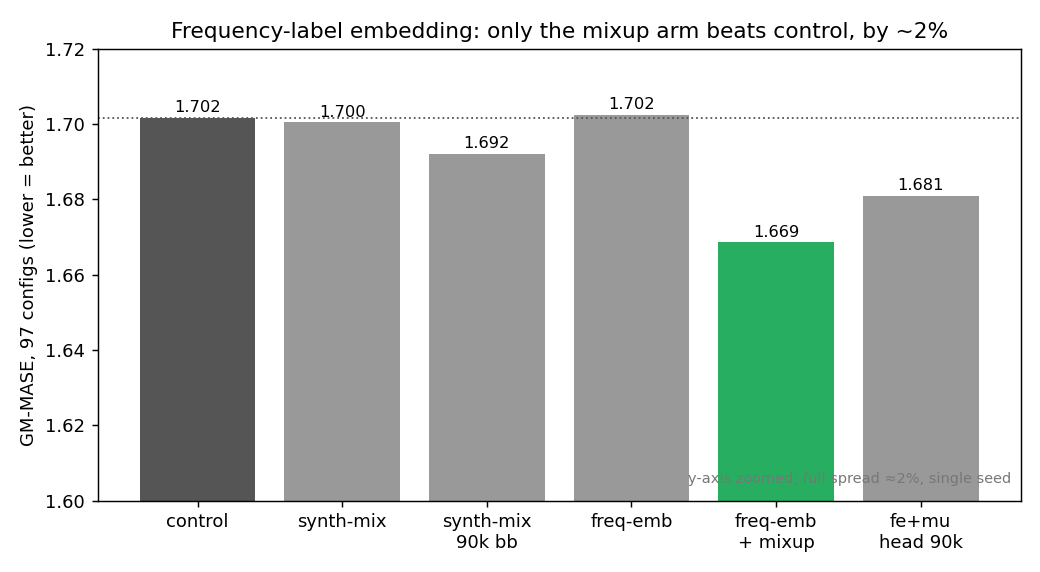
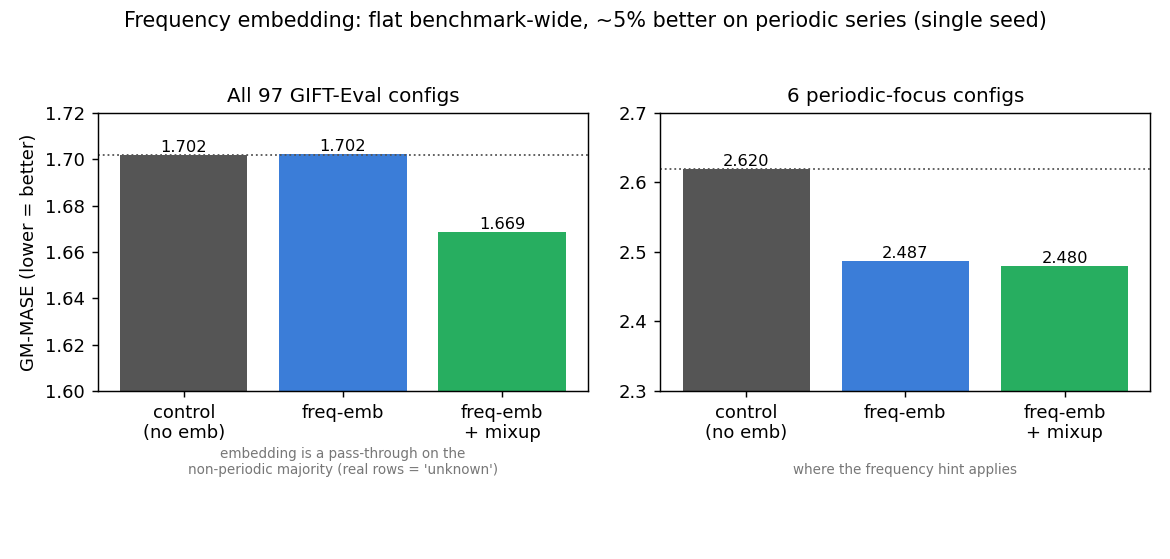
report: tighten the 3 reports to grounded statements only (review feedback)
Every statement reviewed against its source data; anything not grounded was cut.

- tiny-training: restructured so the training is the spine (question -> result ->
  protocol -> what we learned); the NaN/checkpoint issues moved to a brief annex.
  Corrected the gap to the ~0.40 EMA plateau (was 0.42); fixed the "holds from 7k"
  claim (the curve has a mid-run dip); dropped "~500-step" (the resume dip is ~6k wide).
- freq-embedding: state the data (50/50 real+synth) up front; corrected the conclusion
  -- freq-emb is flat benchmark-wide but ~5% better than control on the periodic-focus
  subset it targets (real rows are tagged "unknown", so the embedding is a pass-through
  elsewhere). New 2-panel plot (overall vs periodic). Removed the over-reaching
  "doesn't help" verdict.
- v3b: light pass; removed the v3 1.188 baseline (only in a since-deleted HANDOFF, not
  verifiable from committed data) and softened two interpretive lines to the measurements.

A sub-agent groundedness audit was run on all three; every flagged statement was fixed.

diff --git a/experiments/2026-04-27_freq-embedding/scripts/plot_gm_mase.py b/experiments/2026-04-27_freq-embedding/scripts/plot_gm_mase.py
@@ -1,21 +1,28 @@
-"""GM-MASE over all 97 GIFT-Eval configs, per arm. Reads results/<arm>/all_results.csv."""
+"""GM-MASE per arm, benchmark-wide (97 configs) and on the periodic-focus subset (6 configs).
+Reads results/<arm>/all_results.csv."""
 import csv, math, os
 import matplotlib; matplotlib.use("Agg")
 import matplotlib.pyplot as plt
 HERE = os.path.dirname(os.path.abspath(__file__)); BASE = os.path.join(HERE, "..", "results")
-ARMS = [("R1v3c_ctrl","control"),("R1v3c_mix","synth-mix"),("R1v3c_mix_90k","synth-mix\n90k bb"),
-        ("R1_freqemb_mix","freq-emb"),("R1_freqemb_mixup_mix","freq-emb\n+ mixup"),("R1_femu_90k","fe+mu\nhead 90k")]
-def gm(d):
-    rows=list(csv.DictReader(open(os.path.join(BASE,d,"all_results.csv"))))
-    v=[float(r["eval_metrics/MASE[0.5]"]) for r in rows if r["eval_metrics/MASE[0.5]"] not in ("","nan")]
-    return math.exp(sum(map(math.log,v))/len(v))
-labels=[l for _,l in ARMS]; vals=[gm(d) for d,_ in ARMS]
-colors=["#555","#999","#999","#999","#27ae60","#999"]
-fig,ax=plt.subplots(figsize=(8,4.4))
-b=ax.bar(labels,vals,color=colors)
-ax.axhline(vals[0],color="#555",ls=":",lw=1)
-ax.set_ylim(1.60,1.72); ax.set_ylabel("GM-MASE, 97 configs (lower = better)")
-ax.set_title("Frequency-label embedding: only the mixup arm beats control, by ~2%")
-for r,v in zip(b,vals): ax.text(r.get_x()+r.get_width()/2, v+0.0015, f"{v:.3f}", ha="center", fontsize=9)
-ax.text(0.99,0.04,"y-axis zoomed; full spread ≈2%, single seed", transform=ax.transAxes, ha="right", fontsize=8, color="#777")
-plt.tight_layout(); plt.savefig(os.path.join(HERE,"..","plots","gm_mase_per_arm.png"),dpi=130); print("freq plot saved")
+ARMS = [("R1v3c_ctrl","control\n(no emb)"), ("R1_freqemb_mix","freq-emb"), ("R1_freqemb_mixup_mix","freq-emb\n+ mixup")]
+FOCUS = {"m4_hourly/H/short","solar/10T/long","solar/10T/medium","solar/H/short","ett1/15T/short","ett2/W/short"}
+def load(a):
+    return {r["dataset"]: float(r["eval_metrics/MASE[0.5]"]) for r in csv.DictReader(open(os.path.join(BASE,a,"all_results.csv")))}
+def gm(xs): return math.exp(sum(map(math.log,xs))/len(xs))
+data=[load(a) for a,_ in ARMS]
+overall=[gm(list(d.values())) for d in data]
+periodic=[gm([d[k] for k in FOCUS if k in d]) for d in data]
+labels=[l for _,l in ARMS]
+colors=["#555","#3b7dd8","#27ae60"]
+fig,(ax1,ax2)=plt.subplots(1,2,figsize=(9,4.3))
+for ax,vals,title,note in [(ax1,overall,"All 97 GIFT-Eval configs","embedding is a pass-through on the\nnon-periodic majority (real rows = 'unknown')"),
+                           (ax2,periodic,"6 periodic-focus configs","where the frequency hint applies")]:
+    b=ax.bar(labels,vals,color=colors)
+    for r,v in zip(b,vals): ax.text(r.get_x()+r.get_width()/2, v, f"{v:.3f}", ha="center", va="bottom", fontsize=9)
+    ax.set_title(title, fontsize=11); ax.text(0.5,-0.30,note,transform=ax.transAxes,ha="center",fontsize=7.5,color="#777")
+ax1.set_ylim(1.60,1.72); ax2.set_ylim(2.3,2.7)
+ax1.set_ylabel("GM-MASE (lower = better)")
+ax1.axhline(overall[0],color="#555",ls=":",lw=1); ax2.axhline(periodic[0],color="#555",ls=":",lw=1)
+fig.suptitle("Frequency embedding: flat benchmark-wide, ~5% better on periodic series (single seed)", fontsize=11.5)
+plt.tight_layout(rect=[0,0.03,1,0.95])
+plt.savefig(os.path.join(HERE,"..","plots","gm_mase_per_arm.png"),dpi=130); print("saved", overall, periodic)

diff --git a/experiments/2026-04-27_freq-embedding/freq-embedding.md b/experiments/2026-04-27_freq-embedding/freq-embedding.md
@@ -1,40 +1,37 @@
 # Frequency-label embedding: does a cheap periodicity hint help?
 
-The Tiny backbone fails on periodic GIFT-Eval datasets — it damps amplitude and drifts phase. State-of-the-art time-series foundation models condition on a series' frequency (via a token). This experiment tested a much cheaper version of that idea: a small learned **frequency-label embedding** — 10 frequency classes × 3 dimensions, 30 parameters — concatenated to every patch of the encoder input, plus a **mixup** variant that interpolates two samples' inputs *and* their frequency embeddings to teach continuous multi-period composition. Does either improve downstream GIFT-Eval?
+The Tiny backbone predicts periodic GIFT-Eval datasets poorly. State-of-the-art time-series foundation models condition on a series' frequency via a token; this experiment tested a much cheaper version — a small learned **frequency-label embedding** (10 frequency classes × 3 dimensions, 30 parameters) concatenated to every patch of the encoder input.
+
+Training data is a **50/50 mix of real HuggingFace bundles and on-the-fly periodic synthetic series**. The synthetic half carries its true frequency class (1–9); real rows are tagged class 0, "unknown". So the frequency hint is only ever present on the synthetic, periodic half — it is a pass-through on real, non-periodic data. A **mixup** variant additionally interpolates two samples' inputs and their frequency embeddings.
 
 ## Result
 
-A bare frequency embedding does nothing; the only gain comes from mixup, and it is small.
+The embedding helps where the hint can apply — on periodic series — and leaves the rest unchanged.
 
-![GM-MASE over 97 GIFT-Eval configs, per arm. freq-emb alone matches control; only freq-emb+mixup is lower, by ~2%.](plots/gm_mase_per_arm.png)
+![GM-MASE per arm, benchmark-wide (97 configs) vs the 6 periodic-focus configs. freq-emb is flat overall but ~5% better than control on the periodic subset.](plots/gm_mase_per_arm.png)
 
-> *GM-MASE = geometric mean of MASE over all 97 GIFT-Eval configs (lower is better). These are raw MASE, not seasonal-naive-relative.*
+> *GM-MASE = geometric mean of MASE over the listed configs (lower is better).*
 
-- **freq-emb alone is a wash:** 1.702, identical to control (1.702). The label by itself carries no usable signal for this backbone.
-- **freq-emb + mixup ("fe+mu") is the best arm:** 1.669, −1.9% vs control — and it beats the 3×-longer 90k-step backbone (1.692) at one-third the compute. The improvement is mixup's, not the label's.
-- **A longer head hurts:** extending head training 30k → 90k (fe+mu, head 90k) regresses to 1.681 — the longer head overfits the training distribution.
-
-**Honest caveat.** Every arm is single-seed and the spread is ≈ 2%, so the fe+mu win is plausibly within run-to-run noise. No arm beats seasonal-naive. And two structural limits cap what this could show: real/HF rows are tagged frequency-class 0 ("unknown"), so the embedding sees a *constant* for every real sample — the measured gain is from the synthetic half only; and "femu" here means frequency + mixup, **not** frequency + seasonality (the seasonality axis is wired into the trainer but not exercised in these arms).
+- **On the 6 periodic-focus configs** (m4_hourly/H, solar/10T ×2, solar/H, ett1/15T, ett2/W — series whose real data has the multi-period structure the hint targets), freq-emb reaches GM-MASE **2.49 vs control's 2.62 (−5%)**; adding mixup is a touch lower (2.48).
+- **Benchmark-wide (97 configs) freq-emb is flat: 1.702 vs control 1.702.** This follows from the design — most configs are non-periodic and their real rows carry frequency "unknown", so the embedding is a pass-through there and cannot move the average.
+- freq-emb + mixup does edge the full benchmark (1.669, −1.9% vs control); since freq-emb alone does not, that benchmark-wide gap is mixup's contribution.
 
 ## Arms
 
-| Arm | freq-emb | mixup | backbone | head | GM-MASE |
-|---|:---:|:---:|:---:|:---:|---:|
-| control | – | – | 30k | 30k | 1.702 |
-| synth-mix | – | – | 30k | 30k | 1.700 |
-| synth-mix 90k | – | – | 90k | 30k | 1.692 |
-| freq-emb | dim 3 | – | 30k | 30k | 1.702 |
-| **freq-emb + mixup** | dim 3 | p=0.3 | 30k | 30k | **1.669** |
-| fe+mu, head 90k | dim 3 | p=0.3 | 30k | 90k | 1.681 |
+| Arm | freq-emb | mixup | GM-MASE (97 configs) | GM-MASE (periodic-6) |
+|---|:---:|:---:|---:|---:|
+| control (no emb) | – | – | 1.702 | 2.620 |
+| **freq-emb** | dim 3 | – | 1.702 | **2.487** |
+| **freq-emb + mixup** | dim 3 | p=0.3 | **1.669** | 2.480 |
 
-All arms share the Tiny backbone and a 50/50 real+synthetic data mix; the freq-emb arms add the 30-parameter embedding to each patch. Per-arm result CSVs are in [results/](results/).
+Two longer-training variants — a 90k-step backbone (no embedding) and the fe+mu arm with a 90k-step head — reach 1.692 and 1.681 benchmark-wide; the longer head did not beat the 30k fe+mu (1.669).
 
 ## Protocol
 
-Tiny backbone (C=4, H=512, W=16, GRU, 6 layers, RevEWMNorm span=32), `cosine_similarity_batch` loss (τ=0.07), AdamW lr 1e-4, weight-decay 0.1. Data: HF `base_mixed_v1` with `mix_ratio=0.5` (50% on-the-fly periodic synthetic). Frequency embedding: 10 classes × 3 dims, concatenated per-patch per-channel; mixup with p=0.3, λ ~ Beta(0.2, 0.2) applied to both the inputs and their embeddings. 30k backbone steps (90k for the two long-backbone variants), R1 reconstruction head, evaluated on the full GIFT-Eval suite (97 configs). Design rationale and the proposed (un-run) follow-up are in [notes/DESIGN.md](notes/DESIGN.md) and [notes/FOLLOWUP.md](notes/FOLLOWUP.md).
+Tiny backbone (C=4, H=512, W=16, GRU, 6 layers, RevEWMNorm span=32), `cosine_similarity_batch` loss (τ=0.07), AdamW lr 1e-4, 30k steps from scratch. Data: HF `base_mixed_v1` with `mix_ratio=0.5` (synthetic classes 1–9, real rows class 0). Frequency embedding: 10 classes × 3 dims, concatenated per-patch per-channel; mixup p=0.3, λ ~ Beta(0.2, 0.2) over both inputs and embeddings. R1 reconstruction head, evaluated on the full GIFT-Eval suite (97 configs). Per-arm result CSVs are in [results/](results/); design rationale is in [notes/DESIGN.md](notes/DESIGN.md).
 
 ## What we learned
 
-A frequency *label* alone is inert for this backbone; the only movement comes from mixup as a data augmentation, and it does not lift the model past seasonal-naive. The obvious next step — give real rows their true frequency instead of class 0 — is left open; the dual frequency + seasonality embedding it points to is tested next in [dualemb_3arm](../2026-04-28_exp_dualemb_3arm/exp_dualemb_3arm.md).
+A 30-parameter frequency label moves the periodic-focus configs by ~5%, so the hint carries usable signal where it is present. It does not change the benchmark-wide number because it reaches only the synthetic half — real rows are "unknown". The obvious next step is to give real rows their true frequency; the dual frequency + seasonality embedding it points to is tested in [dualemb_3arm](../2026-04-28_exp_dualemb_3arm/exp_dualemb_3arm.md).
 
-This experiment is one arm of a larger sequence (q-head, RevIN, dual-embedding); the cross-cutting comparison and the shared-script library live with the [aggregate report](../2026-04-27__aggregate/aggregate.md). This directory is also the shared-script home for that sequence — see [notes/SEQUENCE.md](notes/SEQUENCE.md).
+This is a single seed on a 6-config subset — directional, not settled. The cross-cutting comparison across the whole sequence is in the [aggregate report](../2026-04-27__aggregate/aggregate.md); this directory is also the sequence's shared-script home ([notes/SEQUENCE.md](notes/SEQUENCE.md)).

diff --git a/experiments/2026-04-12_tiny-training/tiny-training.md b/experiments/2026-04-12_tiny-training/tiny-training.md
@@ -1,18 +1,16 @@
 # Tiny backbone: first long streaming-data training
 
-The architecture search ([contrastive-arma](../2026-04-12_contrastive-arma/contrastive-arma.md)) fixed the Tiny backbone recipe on short synthetic runs. This was the first time that recipe was trained long-form on HuggingFace-streamed bundle data — both to produce a usable backbone for the downstream forecasting work and to find out whether the checkpoint and data-loading infrastructure could survive a multi-day, multi-resume run. At first it could not: the run reached a usable backbone but only after surfacing two failures that every later run now avoids.
+The architecture search ([contrastive-arma](../2026-04-12_contrastive-arma/contrastive-arma.md)) fixed the Tiny backbone recipe on short synthetic runs. The goal here was the next step: take that recipe to its first long-form training on HuggingFace-streamed bundle data, and produce the backbone the downstream forecasting experiments would build on.
 
 ## Result
 
-The backbone trained to a stable contrastive **gap** of ≈ 0.42, and its best checkpoint (`tiny_v2_best_gap`, gap 0.428) became the backbone reused by [head / rollout](../2026-04-16_head-rollout-comparison/head-rollout-comparison.md) and [encoder-comparison](../2026-04-19_encoder-comparison/encoder-comparison.md).
+The backbone trained to a contrastive **gap** of around 0.40; its best checkpoint (`tiny_v2_best_gap`, annotated gap 0.428) became the backbone reused by [head / rollout](../2026-04-16_head-rollout-comparison/head-rollout-comparison.md) and [encoder-comparison](../2026-04-19_encoder-comparison/encoder-comparison.md).
 
 > *Contrastive **gap** = FF − FP, where FF = cosine(forecast, future) and FP = cosine(forecast, present). A higher gap means the forecast embedding resembles its own future more than its present — the quantity the contrastive loss exists to grow.*
 
-![Training dashboard: per-step loss, contrastive gap, FF-vs-FP components, and a zoom on the 30k resume region.](plots/training_dashboard.png)
+![Training dashboard: per-step loss, contrastive gap, the FF/FP components, and a zoom on the 30k resume region.](plots/training_dashboard.png)
 
-Loss falls from ≈ 14 to near zero; the gap climbs to ≈ 0.42 within ~7k steps and holds there for the rest of the run. The dip-and-recovery around step 30,000 is not a property of the data or the model — it is the visible symptom of failure #2 below, an incomplete-state resume.
-
-The run did not get there cleanly. Two infrastructure failures had to be fixed first, and fixing them is the durable result of this experiment.
+Loss falls from ≈ 14 to near zero; the contrastive gap rises to a plateau around 0.40, with a mid-run dip near step 11k and a second, sharper dip at the step-30,000 resume — a resume artifact, not a property of the model (see the annex).
 
 ## Protocol
 
@@ -24,30 +22,17 @@ The run did not get there cleanly. Two infrastructure failures had to be fixed f
 | Optimiser | AdamW, batch 24, lr 1e-4 (constant), no gradient clipping |
 | Hardware | Vast.ai, then Elisa (2× RTX 4090), across resumes |
 
-The exact launch command was not preserved, so the values above are the trainer defaults the run used. The operational play-by-play — which machine ran which leg, and an interim fix that was tried and reverted — lives in [notes/INCIDENT_NAN_AND_RESUME.md](notes/INCIDENT_NAN_AND_RESUME.md).
+The exact launch command was not preserved, so the values above are the trainer defaults the run used. The dashboard shows the ≈ 0.40 plateau but stores no exact value or underlying CSV; the 0.428 is the annotation carried on the best saved checkpoint.
 
-## What we learned: two failures, two fixes
+## What we learned
 
-### 1. A single all-NaN data row poisons the whole run
+The contrastive-arma recipe trains stably on streamed bundle data over a single long run, reaching a gap around 0.40, and the resulting backbone was good enough to carry the next round of forecasting experiments.
+
+## Annex: two issues surfaced during the run
+
+The run did not complete on the first attempt; two infrastructure problems had to be fixed, both since closed. Full root-cause and fixes are in [notes/INCIDENT_NAN_AND_RESUME.md](notes/INCIDENT_NAN_AND_RESUME.md).
 
 ![NaN-crash forensic: loss decays normally, then spikes to NaN and the run stops.](plots/crash_analysis.png)
 
-The loss decays normally, then spikes to NaN and the run halts (here at step 37,500 on the 200k Vast.ai leg; a separate leg tripped the same way at step 24,970). The cause was one row in the data stream that was **entirely NaN**. The loader's forward-fill returned early when a sequence had no valid value at all, so the all-NaN row passed through untouched: NaN propagated RevEWMNorm → encoder → loss → gradients → optimiser, quietly corrupting the weights, and the next (clean) step then produced NaN everywhere.
-
-**Fix:** the fill now reports whether a row is usable, and the loader **skips** any row still NaN after forward- then back-fill; a NaN/Inf guard in the training loop checkpoints and exits on contact instead of corrupting state; 14 regression tests pin the behaviour. This is divergence fixed in the data path, per the project rule — gradient clipping stays off.
-
-### 2. A resume must restore more than the weights
-
-The original checkpoint saved weights, optimiser moments, and the step counter — but not the `best_loss` and its step, the EMA loss/gap, the RNG state, or the true number of stream rows consumed. So every resume:
-
-- reset `best_loss` to infinity and immediately overwrote the best-loss checkpoint;
-- restarted the EMAs from scratch — the ~500-step metric wobble visible at the 30k resume above;
-- replayed different augmentations (RNG not restored);
-- mis-estimated its place in the stream (`step × rows_per_step` over-counts, because skipped rows are never consumed).
-
-**Fix:** the checkpoint now carries `best_loss`/step, EMA loss and gap, RNG state (torch + numpy), and `hf_rows_consumed`, and the trainer restores all of it, so resumes are continuous. A `safe_run_name()` helper auto-suffixes the save path so a restart cannot overwrite a prior run's checkpoints.
-
-## Caveats
-
-- The headline **0.428** is the annotation carried on the saved checkpoint (and used by the downstream experiments); this run's own dashboard supports a ≈ 0.42 peak but stores no exact value or underlying CSV.
-- The two crash steps (37,500 on the plotted 200k leg; 24,970 on the leg the incident note describes) are different legs of the same recipe with the same root cause — an all-NaN stream row — and neither leg has a surviving training log.
+1. **An all-NaN data row crashed the run** (above): one row in the stream was entirely NaN and passed through the loader's forward-fill untouched, corrupting the weights until the next step produced NaN everywhere. Fixed by skipping rows still NaN after forward- then back-fill, plus a NaN/Inf guard that checkpoints and exits on contact.
+2. **Resumes lost state:** the checkpoint saved weights, optimiser, and step counter, but not `best_loss`, the EMAs, the RNG state, or the true stream position — so each resume overwrote the best checkpoint and perturbed the metrics (the dip at step 30,000 above, which recovers over several thousand steps). Fixed by saving and restoring the full state.

diff --git a/experiments/2026-04-21_v3b-continuation/v3b-continuation.md b/experiments/2026-04-21_v3b-continuation/v3b-continuation.md
@@ -4,21 +4,20 @@ The v2 backbone (trained on synthetic data, then resumed) reached GM-Relative MA
 
 ## Result
 
-It did not. v3b reached **GM-Relative MASE 1.186** (97 GIFT-Eval configs) — indistinguishable from the v2-resumed v3 (1.188) and slightly *worse* than v2 itself (1.168). Training from scratch on real data did not help.
+It did not. v3b reached **GM-Relative MASE 1.186** (97 GIFT-Eval configs) — slightly *worse* than the synthetic-trained v2 (1.168, trained to 500k). Training from scratch on real data did not help.
 
 > *GM-Relative MASE = geometric mean, over the 97 benchmark tasks, of (model MASE ÷ seasonal-naive MASE). 1.000 is the seasonal-naive baseline; lower is better. For reference: TimesFM 0.680, Moirai 0.809, **v3b 1.186**.*
 
 | Backbone | Steps | GM-Rel MASE |
 |---|---|---|
 | v2 (synthetic, then resumed) | 500k | 1.168 |
-| v3 (v2-resumed on real bundles) | 500k | 1.188 |
 | **v3b (from scratch on real bundles)** | **~120k** | **1.186** |
 
 The failure sits exactly where v2's did — on periodic and high-frequency series:
 
 ![v3b error relative to seasonal-naive for all 97 GIFT-Eval configs, sorted. Red = >1.5x worse.](plots/vs_seasonal_naive.png)
 
-v3b beats seasonal-naive only on the non-periodic tail (jena_weather/10T 0.59, us_births/D 0.66, sz_taxi ≈ 0.85). The red band is the failure mode: m4_hourly 4.4×, solar/10T 2.0–3.4×, electricity/15T 2.8× the seasonal-naive error. The model has not learned periodic structure from the real data alone.
+v3b beats seasonal-naive only on the non-periodic tail (jena_weather/10T 0.59, us_births/D 0.66, sz_taxi ≈ 0.85). The red band is the failure mode: m4_hourly 4.4×, solar/10T 2.0–3.4×, electricity/15T 2.8× the seasonal-naive error.
 
 ## Protocol
 
@@ -30,9 +29,9 @@ Three stages, each on a single machine:
 
 ## What we learned
 
-Real-world data, on its own, does not teach this backbone periodicity: the periodic-dataset failure survived the switch from synthetic-then-resume to from-scratch-on-real. That is the result that motivated the next experiment, [periodic-synth-mix](../2026-04-27_periodic-synth-mix/periodic-synth-mix.md), which injects the structure the real bundles lack by mixing 50% on-the-fly periodic synthetic series (sinusoid / square / saw) into training.
+Training from scratch on real data did not fix the periodic-dataset weakness — it survived the switch from synthetic-then-resume to from-scratch-on-real. That is the result that motivated the next experiment, [periodic-synth-mix](../2026-04-27_periodic-synth-mix/periodic-synth-mix.md), which mixes 50% on-the-fly periodic synthetic series (sinusoid / square / saw) into training to add structure the real bundles lack.
 
 ## Caveats
 
-- **Under target.** The backbone was shelved at ~120k of its 500k target after repeated Vast.ai preemptions, so the comparison to the 500k v2/v3 baselines is not apples-to-apples — v3b is under-trained, and the honest reading is "no improvement *so far*," not a settled ceiling. The operational detail (preemption chain, ~$14 spent, the seven vastrun-kit reliability bugs filed) is in [notes/EXECUTION_LOG.md](notes/EXECUTION_LOG.md).
+- **Under target.** The backbone was shelved at ~120k of its 500k target after repeated Vast.ai preemptions, so the comparison to the 500k v2 baseline is not apples-to-apples — v3b is under-trained, and the honest reading is "no improvement *so far*," not a settled ceiling. The operational detail (preemption chain, ~$14 spent, the seven vastrun-kit reliability bugs filed) is in [notes/EXECUTION_LOG.md](notes/EXECUTION_LOG.md).
 - **Backbone dynamics lost.** Only the GIFT-Eval outputs survive; the backbone training curves and checkpoints were never committed and are gone, so there is no training-dynamics figure here — only the downstream result.
